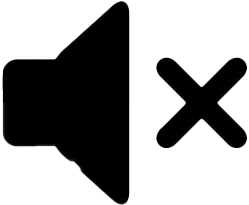
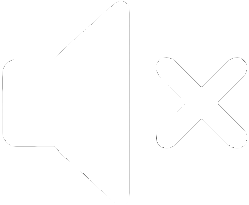
bouton

diff --git a/GalaxyRush/MainWindow.xaml b/GalaxyRush/MainWindow.xaml
@@ -136,9 +136,11 @@
             Visibility="Collapsed" 
             Foreground="#FFD499B9" FontSize="20"
             />
-        <MediaElement x:Name="MusiqueMenu"  Source="audio/musiqueMenu.mp3" LoadedBehavior="Manual" Margin="52,244,592,109" />
-        <MediaElement x:Name="MusiqueJeu" Source="audio/musiqueJeu.mp3" LoadedBehavior="Manual" Visibility="Visible" Margin="45,306,594,33" />
-        <Button x:Name="butSon" HorizontalAlignment="Left" Margin="18,259,0,0" VerticalAlignment="Top" Height="85" Width="160" Click="ButSon_Click" Visibility="Collapsed"/>
-        <Image x:Name="sonStatut" MouseLeftButtonDown="SonStatut_MouseLeftButtonDown" Margin="16,256,619,88" Visibility="Collapsed"/>
+        <MediaElement x:Name="MusiqueJeu" Source="audio/musiqueJeu.mp3" LoadedBehavior="Manual" Visibility="Collapsed" />
+        <Button x:Name="butSon" Foreground="Transparent" BorderBrush="Transparent" HorizontalAlignment="Left" Margin="10,350,0,0" VerticalAlignment="Top" Height="44" Width="54" Click="ButSon_Click" Visibility="Collapsed">
+            <Button.Background>
+                <ImageBrush ImageSource="\images\son_couper.png"/>
+            </Button.Background>
+        </Button>
     </Grid>
 </Window>

diff --git a/GalaxyRush/Menu.xaml b/GalaxyRush/Menu.xaml
@@ -97,9 +97,11 @@
             FontFamily="{StaticResource Stargaze Stencil}"
             FontSize="15"
             Foreground="#D499B9" />
-        <MediaElement x:Name="MusiqueJeu" Source="audio/musiqueJeu.mp3" LoadedBehavior="Manual" Visibility="Collapsed" />
-        <MediaElement x:Name="MusiqueMenu"  Source="audio/musiqueMenu.mp3" LoadedBehavior="Manual" Margin="52,244,592,109" />
-        <Button x:Name="butSon" Style="{StaticResource CustomButtonStyle}" HorizontalAlignment="Left" Margin="50,240,0,0" VerticalAlignment="Top" Height="85" Width="160" Click="ButSon_Click"/>
-        <Image x:Name="sonStatut"  MouseLeftButtonDown="SonStatut_MouseLeftButtonDown" Margin="46,236,589,108"/>
+        <MediaElement x:Name="MusiqueMenu" Source="audio/musiqueMenu.mp3" LoadedBehavior="Manual" Visibility="Collapsed" />
+        <Button x:Name="butSon" Style="{StaticResource CustomButtonStyle}" HorizontalAlignment="Left" Margin="25,372,0,0" VerticalAlignment="Top" Height="44" Width="54" Click="ButSon_Click">
+            <Button.Background>
+                <ImageBrush ImageSource="\images\son_couper.png"/>
+            </Button.Background>
+        </Button>
     </Grid>
 </Window>

diff --git a/GalaxyRush/MainWindow.xaml.cs b/GalaxyRush/MainWindow.xaml.cs
@@ -144,7 +144,7 @@ namespace GalaxyRush
             Menu menu = new Menu();
             menu.ShowDialog();
             MusiqueJeu.Stop();
-            MusiqueMenu.Play();
+            //MusiqueMenu.Play();
             this.Close();
         }
 
@@ -479,7 +479,6 @@ namespace GalaxyRush
                 pauseText.Visibility = Visibility.Visible;
                 MusiqueJeu.Visibility = Visibility.Visible;
                 butSon.Visibility = Visibility.Visible;
-                sonStatut.Visibility = Visibility.Visible;
                 Rejouer1.Visibility = Visibility.Visible;
                 Quitter.Visibility = Visibility.Visible;
             }
@@ -490,7 +489,6 @@ namespace GalaxyRush
                 tempsJeu.Start();
                 MusiqueJeu.Visibility = Visibility.Collapsed;
                 butSon.Visibility = Visibility.Collapsed;
-                sonStatut.Visibility = Visibility.Collapsed;
                 Rejouer1.Visibility = Visibility.Collapsed;
                 Quitter.Visibility = Visibility.Collapsed;
             }
@@ -533,7 +531,7 @@ namespace GalaxyRush
             MainWindow rejouer = new();
             rejouer.Show();
             MusiqueJeu.Stop();
-            MusiqueMenu.Play();
+            //MusiqueMenu.Play();
             this.Close();
         }
 
@@ -543,7 +541,6 @@ namespace GalaxyRush
             Menu retourMenu = new();
             retourMenu.Show();
             MusiqueJeu.Stop();
-            MusiqueMenu.Play();
             this.Close();
         }
 
@@ -551,18 +548,12 @@ namespace GalaxyRush
         private void ButSon_Click(object sender, RoutedEventArgs e)
         {
             MusiqueJeu.IsMuted = !MusiqueJeu.IsMuted;
-        }
-
-
-        private void SonStatut_MouseLeftButtonDown(object sender, MouseButtonEventArgs e)
-        {
-            if (imageAffiche)
-                sonStatut.Source = new BitmapImage(new Uri(AppDomain.CurrentDomain.BaseDirectory + "\\Images\\son.png"));
-            else
-                sonStatut.Source = new BitmapImage(new Uri(AppDomain.CurrentDomain.BaseDirectory + "\\Images\\son_couper.png"));
-
-            imageAffiche = !imageAffiche;
-            butSon.RaiseEvent(new RoutedEventArgs(Button.ClickEvent));
+            string imageUri;
+            if (MusiqueJeu.IsMuted)           
+                imageUri = "\\Images\\son_couper.png";            
+            else           
+                imageUri = "\\Images\\son.png";
+            butSon.Background = new ImageBrush(new BitmapImage(new Uri($"pack://application:,,,/GalaxyRush;component/{imageUri}", UriKind.Absolute)));
         }
     }
 }

diff --git a/GalaxyRush/Menu.xaml.cs b/GalaxyRush/Menu.xaml.cs
@@ -13,12 +13,10 @@ namespace GalaxyRush
         private ImageBrush fondMenu = new ImageBrush();
         private ImageBrush fondMenuLogo = new ImageBrush();
         private bool fenetreRegle = false;
-        bool imageAffiche = true;
 
         public Menu()
         {
             InitializeComponent();
-            MusiqueJeu.Stop();
             MusiqueMenu.Play();
 
             fondMenu.ImageSource = new BitmapImage(new Uri(AppDomain.CurrentDomain.BaseDirectory + "\\images\\fond_espace.jpg"));
@@ -59,19 +57,19 @@ namespace GalaxyRush
 
 
         private void ButSon_Click(object sender, RoutedEventArgs e)
-        {
+        {         
             MusiqueMenu.IsMuted = !MusiqueMenu.IsMuted;
-        }
 
-        private void SonStatut_MouseLeftButtonDown(object sender, MouseButtonEventArgs e)
-        {
-            if (imageAffiche)
-                sonStatut.Source = new BitmapImage(new Uri(AppDomain.CurrentDomain.BaseDirectory + "/Images/son.png"));
+            string imageUri;
+            if (MusiqueMenu.IsMuted)
+            {
+                imageUri = "\\Images\\son_couper.png";
+            }
             else
-                sonStatut.Source = new BitmapImage(new Uri(AppDomain.CurrentDomain.BaseDirectory + "/Images/son_couper.png"));
-
-            imageAffiche = !imageAffiche;
-            butSon.RaiseEvent(new RoutedEventArgs(Button.ClickEvent));
+            {
+                imageUri = "\\Images\\son.png";
+            }
+            butSon.Background = new ImageBrush(new BitmapImage(new Uri($"pack://application:,,,/GalaxyRush;component/{imageUri}", UriKind.Absolute)));
         }
     }
 }
